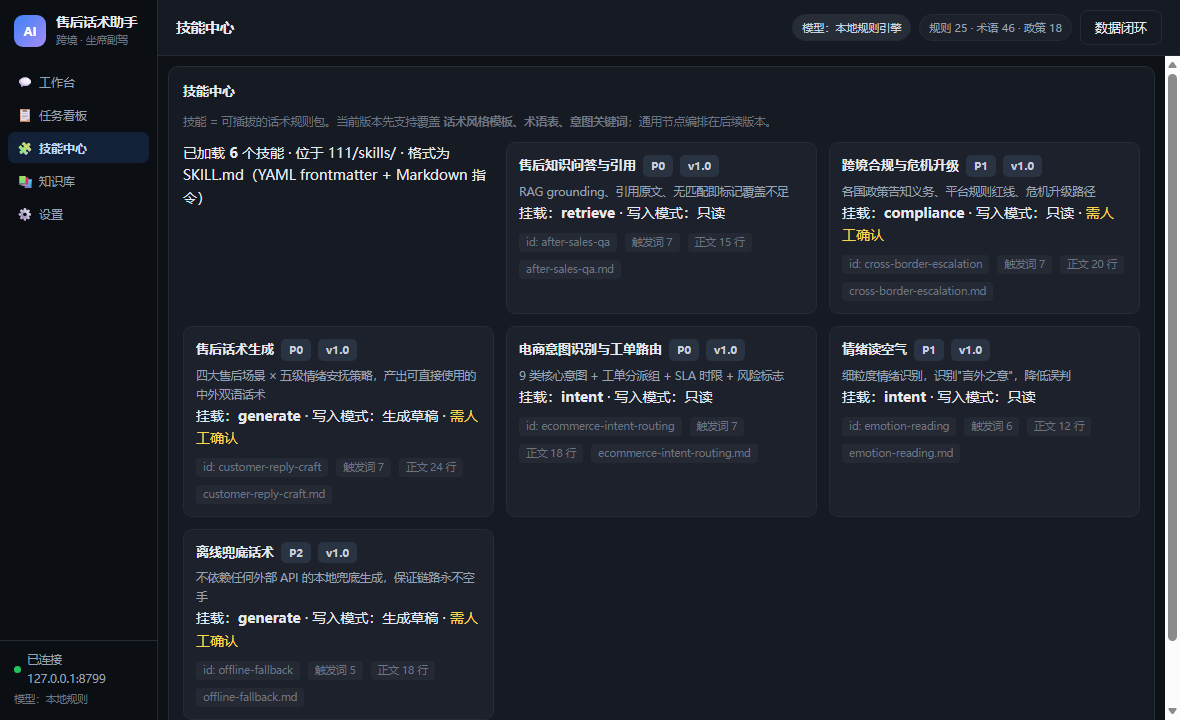
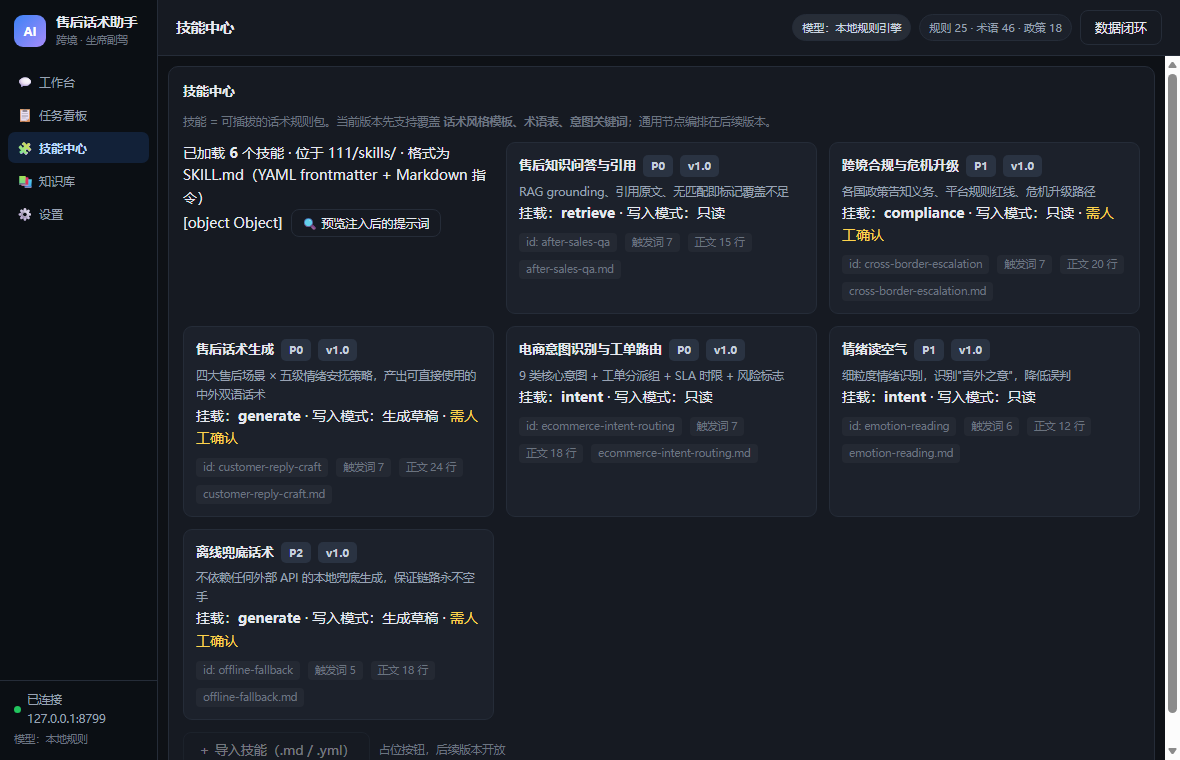
v0.7.0 技能正文真正注入并生效（三层：提示词 / 工单路由 / 情绪策略）
背景：v0.6 只有"技能元数据 + 触发词匹配"，技能正文是死的——没接模型时它就是
一段没人读的文本。这次让它在**不依赖模型**的情况下也真正驱动程序行为。

新增 Get-SkillMarkdownTable / Get-SkillTableRow（engine/skills.ps1）
- 把技能正文里的 Markdown 表格解析成结构化数据
- 关键意义：技能 md 成为唯一真源，改表格里的值程序行为跟着变

三层注入（都能实测验证）
① 组装提示词
   基础提示词 5362 字符 + 命中技能正文 2409 字符 = composed_prompt 7803 字符
   新增 POST /api/prompt-preview 返回真实组装结果（可看到完整 system prompt）
② 工单路由 + SLA
   解析 ecommerce-intent-routing.md 的 9 行路由表
   实测：refund → 售后组 / SLA 4h / 风险「超 ¥500 升级主管」
③ 情绪安抚策略
   解析 customer-reply-craft.md 的 5 级策略表
   实测：情绪 3 级 → 「致歉 + 承认体验不好 + 给选项」
   **并且据此改变程序行为**：策略里出现"主管"就强制把案件升级为高风险
   （新增 escalation.reason = supervisor_required）

接口与界面
- 新增 POST /api/prompt-preview
- 分析结果新增 routing / calming / skill_application 三个字段
- 分析面板新增「工单路由（技能驱动）」「情绪安抚策略（技能驱动）」两段，
  均标注来源技能
- 运行日志新增技能注入量（字符数）与逐条技能应用明细
- 技能中心新增「🔍 预览注入后的提示词」按钮，弹窗展示真实组装结果

验证
- 后端自检 / 12 个 PowerShell 脚本语法 / JS 语法 / 布局实测 全部通过
- 实测分析结果：meta.skills 命中 4 个、composed_prompt_chars=7803、
  routing=售后组/4h、calming=3级、skill_application 3 条
- 运行日志条目从 11 条增至 15 条（技能相关新增 4 条）

diff --git a/111/README.md b/111/README.md
@@ -109,8 +109,22 @@ discovery_terms: [安抚, 退款, 换货, 政策]   # 发现词（权重 1）
 |---|---|---|
 | GET | `/api/skills` | 返回全部技能的元数据（不含正文），技能中心页读它 |
 
-> ⚠ 当前 `pipeline.ps1` 用本地模板生成，**技能正文还没注入提示词**。
-> 接上千帆后把 `Get-SkillPromptBlock` 的结果拼进 system prompt 即可——函数已写好。
+### 技能正文注入（v0.7 起已生效）
+
+技能正文**不再只是给模型看的文本**，而是真的在驱动程序行为（三层）：
+
+| 层 | 做什么 | 可验证方式 |
+|---|---|---|
+| ① 组装提示词 | `基础提示词(5362 字) + 命中技能正文(2409 字) = composed_prompt(7803 字)` | `POST /api/prompt-preview` 或技能中心点「🔍 预览注入后的提示词」 |
+| ② 工单路由 + SLA | **解析技能正文里的 Markdown 表格**，按意图查出分派组与 SLA | 分析结果新增「工单路由（技能驱动）」段 |
+| ③ 情绪安抚策略 | 解析 `customer-reply-craft.md` 的级别表，按情绪强度选处理方式；**表里写了"主管"就强制升级为高风险** | 分析结果新增「情绪安抚策略（技能驱动）」段 |
+
+**关键：技能 md 是唯一真源。** 改 `ecommerce-intent-routing.md` 表格里的 SLA 值，
+分析结果里的 SLA 跟着变；改 `customer-reply-craft.md` 的情绪处理方式，程序行为跟着变。
+这就是为什么要写 `Get-SkillMarkdownTable` 把正文表格解析成结构化数据——
+否则在没接模型的时候，技能正文就是死的。
+
+分析结果里 `skill_application` 会列出本次每个技能具体贡献了什么。
 
 ### 页面深链
 
